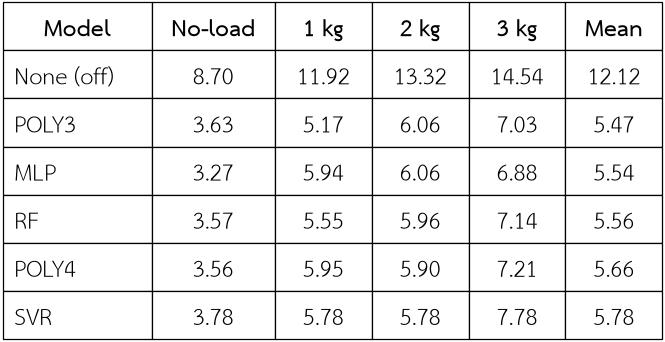
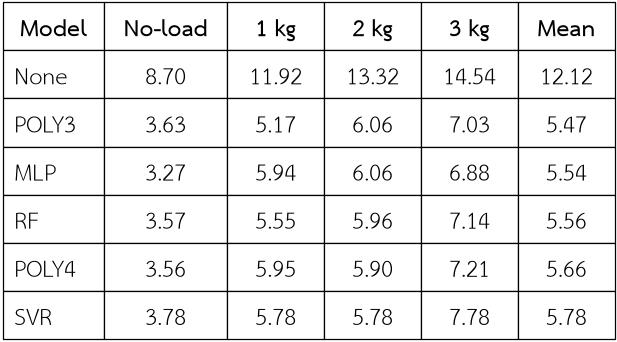
paper: ThaiJO submission package - anonymizer, A4 plan, table 3 label as in v5
Plan re-checked against every page (175-229) of the ThaiJO author manual.
Table 3's first row reads "None" as the author set it in v5.

diff --git a/paper/manuscript/submission/ThaiJO_Submission_Plan_A4.html b/paper/manuscript/submission/ThaiJO_Submission_Plan_A4.html
@@ -1,0 +1,225 @@
+<!doctype html>
+<html lang="th">
+<head>
+<meta charset="utf-8">
+<title>แผนส่งบทความ ThaiJO</title>
+<style>
+  @page { size: A4; margin: 0; }
+  :root {
+    --navy: #14304f; --ink: #1d2733; --muted: #5b6776; --line: #d5dce4;
+    --blue: #1f6fb2; --blue-bg: #e8f1fa; --green: #1e8a52; --green-bg: #e6f4ec;
+    --amber: #b86e00; --amber-bg: #fdf3e1; --red: #c0392b; --red-bg: #fbeae8;
+    --paper: #ffffff;
+  }
+  * { box-sizing: border-box; margin: 0; padding: 0; }
+  html, body { background: var(--paper); }
+  body {
+    width: 210mm; height: 297mm; overflow: hidden;
+    font-family: "TH Sarabun New", sans-serif; font-size: 13.3pt; line-height: 1.0;
+    color: var(--ink); -webkit-print-color-adjust: exact; print-color-adjust: exact;
+  }
+  h1, h2, h3, .k { font-family: "Kanit", "Leelawadee UI", sans-serif; font-weight: 500; }
+  .page { padding: 8mm 10mm 6mm; height: 100%; display: flex; flex-direction: column; gap: 2.8mm; }
+
+  /* header */
+  header { background: var(--navy); color: #fff; border-radius: 3mm; padding: 4mm 5mm 3.6mm; }
+  header h1 { font-size: 15.5pt; line-height: 1.3; }
+  header .sub { font-size: 13pt; opacity: .85; margin-top: .6mm; }
+  .status { display: flex; gap: 2mm; margin-top: 2.4mm; flex-wrap: wrap; }
+  .pill { font-family: "Kanit", sans-serif; font-size: 8.6pt; padding: .9mm 2.6mm; border-radius: 10mm; background: rgba(255,255,255,.14); }
+  .pill.done::before { content: "✓ "; color: #7be0a6; }
+  .pill.next { background: #f2a900; color: #1d2733; }
+
+  /* journey */
+  .journey { display: grid; grid-template-columns: repeat(7, 1fr); gap: 1.4mm; }
+  .stage { position: relative; border: .3mm solid var(--line); border-radius: 2mm; padding: 1.6mm 1.6mm 1.4mm; text-align: center; background: #fbfcfd; }
+  .stage .n { font-family: "Kanit", sans-serif; font-size: 8pt; color: var(--muted); }
+  .stage .t { font-family: "Kanit", sans-serif; font-size: 8.8pt; font-weight: 500; line-height: 1.25; }
+  .stage .d { font-size: 12pt; color: var(--muted); line-height: 1.05; margin-top: .4mm; }
+  .stage.done { background: var(--green-bg); border-color: #a9d8bd; }
+  .stage.now { background: var(--amber-bg); border-color: #f2a900; box-shadow: 0 0 0 .5mm #f2a900 inset; }
+  .stage:not(:last-child)::after { content: "›"; position: absolute; right: -1.45mm; top: 38%; font-size: 13pt; color: #9aa6b2; font-family: "Kanit"; }
+
+  /* main grid */
+  .main { display: grid; grid-template-columns: 1.18fr 1fr; gap: 3mm; }
+  .card { border: .3mm solid var(--line); border-radius: 2.6mm; padding: 2.6mm 3.2mm; background: #fff; }
+  .card h2 { font-size: 11pt; color: var(--navy); margin-bottom: 1.6mm; display: flex; align-items: center; gap: 1.6mm; }
+  .card h2 .tag { font-size: 7.6pt; font-weight: 400; color: var(--muted); }
+
+  .steps { display: flex; flex-direction: column; gap: 1.5mm; }
+  .step { display: grid; grid-template-columns: 7mm 1fr; gap: 2mm; align-items: start; }
+  .step .num { width: 7mm; height: 7mm; border-radius: 50%; background: var(--blue); color: #fff; font-family: "Kanit"; font-size: 10pt; display: grid; place-items: center; }
+  .step .num.last { background: var(--red); }
+  .step h3 { font-size: 9.6pt; color: var(--blue); line-height: 1.3; }
+  .step h3.last { color: var(--red); }
+  .step ul { list-style: none; }
+  .step li { padding-left: 3mm; position: relative; }
+  .step li::before { content: "•"; position: absolute; left: 0; color: #9aa6b2; }
+  b { font-weight: 700; }
+  .hl { background: #fff1c2; padding: 0 .6mm; border-radius: .6mm; }
+
+  .files { font-size: 13.6pt; }
+  .tree { border-left: .4mm solid var(--line); margin-left: 1mm; padding-left: 2.4mm; display: flex; flex-direction: column; gap: .9mm; }
+  .fname { font-family: Consolas, monospace; font-size: 8.3pt; }
+  .type { font-family: "Kanit"; font-size: 7.2pt; padding: .2mm 1.6mm; border-radius: 1mm; margin-left: 1mm; white-space: nowrap; }
+  .type.at { background: var(--blue-bg); color: var(--blue); }
+  .type.ot { background: #eef0f3; color: var(--muted); }
+  .type.no { background: var(--amber-bg); color: var(--amber); }
+  .folder { font-family: "Kanit"; font-size: 8.4pt; color: var(--navy); margin-bottom: 1mm; word-break: break-all; }
+  .note { color: var(--muted); font-size: 12.6pt; line-height: 1.0; font-family: "TH Sarabun New"; font-weight: 400; }
+
+  .checks { list-style: none; display: grid; grid-template-columns: 1fr; gap: .5mm; margin-top: .4mm; }
+  .checks li { padding-left: 5mm; position: relative; }
+  .checks li::before { content: ""; position: absolute; left: 0; top: 1.3mm; width: 3mm; height: 3mm; border: .35mm solid var(--navy); border-radius: .6mm; }
+
+  .right { display: flex; flex-direction: column; gap: 2.8mm; }
+
+  /* bottom */
+  .bottom { display: grid; grid-template-columns: 1fr 1fr 1fr; gap: 3.4mm; flex: 1; }
+  .card.warn { border-color: #e7b3ac; background: var(--red-bg); }
+  .card.warn h2 { color: var(--red); }
+  .card.dec { border-color: #f0cf8f; background: var(--amber-bg); }
+  .card.dec h2 { color: var(--amber); }
+  .card.after { border-color: #b9d3ea; background: var(--blue-bg); }
+  .card ul.plain { list-style: none; display: flex; flex-direction: column; gap: .9mm; }
+  .card ul.plain li { padding-left: 3.4mm; position: relative; }
+  .card ul.plain li::before { content: "▸"; position: absolute; left: 0; font-size: 9pt; top: .4mm; color: inherit; opacity: .6; }
+
+  footer { display: flex; justify-content: space-between; font-size: 11.5pt; color: var(--muted); border-top: .3mm solid var(--line); padding-top: 1.4mm; }
+</style>
+</head>
+<body>
+<div class="page">
+
+<header>
+  <h1>แผนส่งบทความ BLEGS ผ่านระบบ ThaiJO</h1>
+  <div class="sub">วารสารวิชาการพระจอมเกล้าพระนครเหนือ (The Journal of KMUTNB) · สรุปจากคู่มือ ThaiJO (OJS 3.3.0-8) หน้า 175–229 และคำแนะนำผู้แต่ง · 19 พ.ย. 2569</div>
+  <div class="status">
+    <span class="pill done">ต้นฉบับ v5 ตรวจครบทั้งเล่ม</span>
+    <span class="pill done">สมัครสมาชิกแล้ว</span>
+    <span class="pill done">ชุดไฟล์พร้อมส่ง</span>
+    <span class="pill next">ถัดไป: ตั้งโปรไฟล์ แล้วส่งบทความ 5 ขั้น</span>
+  </div>
+</header>
+
+<section class="journey">
+  <div class="stage done"><div class="n">1</div><div class="t">สมัครสมาชิก</div><div class="d">Register + ยืนยันอีเมล</div></div>
+  <div class="stage now"><div class="n">2</div><div class="t">ส่งบทความ</div><div class="d">5 ขั้น (อยู่ตรงนี้)</div></div>
+  <div class="stage"><div class="n">3</div><div class="t">คัดกรอง+ประเมิน</div><div class="d">ตรวจคัดลอก · double-blind 3 ท่าน</div></div>
+  <div class="stage"><div class="n">4</div><div class="t">แก้ไขบทความ</div><div class="d">Revisions ตามผู้ทรงฯ</div></div>
+  <div class="stage"><div class="n">5</div><div class="t">Copyediting</div><div class="d">ตรวจต้นฉบับ (บางวารสารข้าม)</div></div>
+  <div class="stage"><div class="n">6</div><div class="t">Production</div><div class="d">ตรวจไฟล์ PDF จัดหน้า</div></div>
+  <div class="stage"><div class="n">7</div><div class="t">เผยแพร่</div><div class="d">ย้ายไป Archives</div></div>
+</section>
+
+<section class="main">
+  <div class="card">
+    <h2>ส่งบทความ 5 ขั้น <span class="tag">Dashboard → New Submission</span></h2>
+    <div class="steps">
+      <div class="step"><div class="num">1</div><div>
+        <h3>Start</h3>
+        <ul>
+          <li>ภาษา <b>ไทย</b> · เลือก Section/สาขา ถ้ามี</li>
+          <li><span class="hl">อ่าน Section Policy และ Submission Requirements ก่อนติ๊ก</span> จุดเดียวที่บอกเงื่อนไขเฉพาะวารสาร</li>
+          <li>Comments for the Editor (ไม่บังคับ มีร่างให้) · ยอมรับลิขสิทธิ์และ privacy เอง</li>
+        </ul></div></div>
+      <div class="step"><div class="num">2</div><div>
+        <h3>Upload Submission</h3>
+        <ul>
+          <li>ลากหลายไฟล์พร้อมกันได้ ไฟล์ละ ≤ 50 MB</li>
+          <li>ต้นฉบับ = <b>Article Text</b> · jpg 10 ไฟล์ = <b>Other</b></li>
+          <li class="note">ภาพตัวอย่างในคู่มือแนบ agreement.pdf เป็น Other ถ้าวารสารมีแบบฟอร์มให้แนบที่ขั้นนี้</li>
+        </ul></div></div>
+      <div class="step"><div class="num">3</div><div>
+        <h3>Enter Metadata <span class="note">คัดลอกจาก ThaiJO_Metadata.txt</span></h3>
+        <ul>
+          <li>Title และ Abstract กรอกทั้งไทย/อังกฤษ · Prefix/Subtitle เว้นว่าง</li>
+          <li>Contributors กด Edit เติมชื่อไทย สังกัด ORCID · ติ๊ก Principal contact และ Browse lists</li>
+          <li>Keywords ทีละคำแล้ว Enter (4+4) · Supporting Agencies ว่าง · References 19 บรรทัด</li>
+        </ul></div></div>
+      <div class="step"><div class="num last">4</div><div>
+        <h3 class="last">Confirmation → Finish Submission → OK</h3>
+        <ul><li><b>หลังกด OK แก้เองไม่ได้แล้ว</b> ต้องขอผ่าน Pre-Review Discussions</li></ul></div></div>
+      <div class="step"><div class="num">5</div><div>
+        <h3>Next Steps</h3>
+        <ul><li>อีเมล "Submission Acknowledgement" มาพร้อมลิงก์ ให้<b>จดเลข ID บทความ</b></li>
+          <li>Dashboard แสดงสถานะ "Submission" กด View เพื่อเข้าดูบทความ</li>
+          <li>ขอแก้ข้อมูลก่อนเข้าสู่ Review: แท็บ Workflow ส่วน Submission ที่ <b>Pre-Review Discussions</b> กด Add discussion</li></ul></div></div>
+    </div>
+  </div>
+
+  <div class="right">
+    <div class="card">
+      <h2>ตั้งโปรไฟล์ก่อนส่ง <span class="tag">2 ระดับ</span></h2>
+      <ul class="checks">
+        <li>บัญชีกลาง sso.tci-thaijo.org: ชื่อ-นามสกุล และสังกัด ทั้ง EN/TH, ORCID</li>
+        <li>โปรไฟล์ในเว็บวารสาร (View Profile): ลูกโลกเขียวทุกช่อง</li>
+        <li>แท็บ Contact: Working Languages ติ๊กไทย + อังกฤษ · แท็บ Roles: Author</li>
+        <li>Notifications คงค่าเดิม <b>อย่าปิดอีเมลแจ้งเตือน</b></li>
+      </ul>
+    </div>
+
+    <div class="card files">
+      <h2>ชุดไฟล์พร้อมส่ง</h2>
+      <div class="folder">Desktop\BLEGS_ThaiJO_Submission\</div>
+      <div class="tree">
+        <div><span class="fname">BLEGS_Manuscript_Anonymous.docx</span><span class="type at">Article Text</span><div class="note">ฉบับปิดชื่อ (ค่าเริ่มต้น) ไม่มีชื่อในหน้าแรก ท้ายกระดาษ และ Properties</div></div>
+        <div><span class="fname">BLEGS_Manuscript.docx</span><span class="type no">สำรอง</span><div class="note">สำเนา v5 ทุกไบต์ ใช้เมื่อ Step 1 ขอฉบับมีชื่อ</div></div>
+        <div><span class="fname">figures_tables_jpg\ Figure1–5, Table1–5</span><span class="type ot">Other</span></div>
+        <div><span class="fname">ThaiJO_Metadata.txt</span><div class="note">ข้อความวางลงแบบฟอร์ม และร่างข้อความถึงบรรณาธิการ</div></div>
+      </div>
+    </div>
+
+    <div class="card">
+      <h2>ตรวจก่อนกด Finish</h2>
+      <ul class="checks">
+        <li>อ่านเงื่อนไขใน Step 1 แล้ว และเลือกไฟล์ตามนั้น</li>
+        <li>ต้นฉบับ 1 ไฟล์เป็น Article Text, jpg 10 ไฟล์เป็น Other</li>
+        <li>ลูกโลกเขียวที่ Title และ Abstract ทั้งสองภาษา</li>
+        <li>ชื่อ-สังกัดไทย/อังกฤษครบ · อีเมลถูก</li>
+        <li>Keywords ไทย 4 คำ และอังกฤษ 4 คำ</li>
+        <li>References ครบ 19 รายการ แยกบรรทัด</li>
+        <li>ชื่อเรื่องในฟอร์มตรงกับในไฟล์ Word</li>
+      </ul>
+    </div>
+  </div>
+</section>
+
+<section class="bottom">
+  <div class="card warn">
+    <h2>กฎที่พลาดไม่ได้</h2>
+    <ul class="plain">
+      <li><b>ห้ามแก้ไฟล์ v5</b> บน Desktop ใช้ไฟล์ในโฟลเดอร์ส่งเท่านั้น</li>
+      <li>แก้บทความ <b>ห้ามกด New Submission</b> จะได้ ID ใหม่และเกิดบทความซ้ำ</li>
+      <li>กด OK ใน Step 4 แล้วแก้เองไม่ได้</li>
+      <li>อีเมลระบบมาจาก admin@tci-thaijo.org ดูในจดหมายขยะด้วย</li>
+    </ul>
+  </div>
+  <div class="card after">
+    <h2>เมื่อได้ผลประเมิน</h2>
+    <ul class="plain">
+      <li>อีเมล "Editor Decision" ผลประเมินอาจแนบมาในกระทู้</li>
+      <li>แท็บ Review ส่วน Revisions กด Upload File: ต้นฉบับแก้แล้ว = Article Text, <b>ตารางสรุปการแก้ไข</b> = Other</li>
+      <li>อัปโหลดทีละไฟล์ ตั้งชื่อไฟล์ทั้งไทยและอังกฤษ และไฟล์ต้องยังปิดชื่อ</li>
+      <li>ตอบใน Review Discussions ด้วย Add Message ก่อนกำหนดส่ง</li>
+    </ul>
+  </div>
+  <div class="card dec">
+    <h2>ต้องตัดสินใจ / ดูบนเว็บวารสาร</h2>
+    <ul class="plain">
+      <li>ส่งฉบับปิดชื่อหรือมีชื่อ ให้ดูจาก Step 1</li>
+      <li>ค่าธรรมเนียม และแบบฟอร์มเฉพาะวารสาร (ไม่มีในคู่มือ)</li>
+      <li>ยาว 12 หน้า แต่คำแนะนำระบุไม่เกิน 9 หน้า (ร่างข้อความถึงบรรณาธิการกล่าวถึงไว้แล้ว)</li>
+      <li>สังกัดยังไม่มี "ภาควิชา" · ORCID ถ้าต้องการ</li>
+    </ul>
+  </div>
+</section>
+
+<footer>
+  <span>รายละเอียดเต็ม: paper/manuscript/submission/SUBMISSION_CHECKLIST.md</span>
+  <span>คู่มือต้นฉบับ: Desktop\ThaiJO\ (13 ไฟล์)</span>
+</footer>
+
+</div>
+</body>
+</html>

diff --git a/paper/anonymize-docx.py b/paper/anonymize-docx.py
@@ -1,0 +1,71 @@
+"""Anonymized copy of a finished manuscript .docx (the source file is only read).
+
+Drops the Author / Affiliation / Corresponding paragraphs (Thai and English),
+removes the author name from the running footers (title kept, as the -Anonymous
+build does), and blanks the author fields in the document properties.
+Fails loudly if anything identifying is left.
+
+usage: python paper/anonymize-docx.py SRC.docx DST.docx
+(used 19 Nov 2026 for the ThaiJO upload; run it again on every revised file -
+the review is double-blind and revisions must stay anonymous)
+"""
+import re
+import sys
+import zipfile
+
+src, dst = sys.argv[1], sys.argv[2]
+NAMES = ['ธีรโชติ', 'เมืองจำนงค์', 'Teerachot', 'Mueangchamnong',
+         'm.teerachot', '4556 0911', 'วิทยาลัยเทคโนโลยีอุตสาหกรรม',
+         'College of Industrial Technology']
+
+zin = zipfile.ZipFile(src)
+parts = {i.filename: zin.read(i.filename) for i in zin.infolist()}
+infos = zin.infolist()
+
+doc = parts['word/document.xml'].decode('utf8')
+n_drop = 0
+def drop(m):
+    global n_drop
+    p = m.group(0)
+    st = re.search(r'<w:pStyle w:val="([^"]+)"', p)
+    if st and st.group(1) in ('Author', 'Affiliation', 'Corresponding'):
+        n_drop += 1
+        return ''
+    return p
+doc = re.sub(r'<w:p\b[^>]*>(?:(?!</w:p>).)*</w:p>', drop, doc, flags=re.S)
+if n_drop != 6:
+    sys.exit('expected 6 author paragraphs, dropped %d' % n_drop)
+parts['word/document.xml'] = doc.encode('utf8')
+
+n_ftr = 0
+for name in list(parts):
+    if re.match(r'word/footer\d+\.xml$', name):
+        x = parts[name].decode('utf8')
+        new = re.sub(r'(<w:t[^>]*>)ธีรโชติ เมืองจำนงค์, ', r'\1', x)
+        if new != x:
+            n_ftr += 1
+        parts[name] = new.encode('utf8')
+if n_ftr != 2:
+    sys.exit('expected 2 footers with the author name, changed %d' % n_ftr)
+
+core = parts['docProps/core.xml'].decode('utf8')
+core = re.sub(r'<dc:creator>[^<]*</dc:creator>', '<dc:creator></dc:creator>', core)
+core = re.sub(r'<cp:lastModifiedBy>[^<]*</cp:lastModifiedBy>',
+              '<cp:lastModifiedBy></cp:lastModifiedBy>', core)
+parts['docProps/core.xml'] = core.encode('utf8')
+if 'docProps/custom.xml' in parts:
+    parts['docProps/custom.xml'] = parts['docProps/custom.xml'].replace(
+        b'name="anonymous"><vt:lpwstr>False', b'name="anonymous"><vt:lpwstr>True')
+
+left = []
+for name, data in parts.items():
+    if name.endswith('.xml') or name.endswith('.rels'):
+        text = data.decode('utf8', 'ignore')
+        left += ['%s: %s' % (name, k) for k in NAMES if k in text]
+if left:
+    sys.exit('identifying text left:\n  ' + '\n  '.join(left))
+
+with zipfile.ZipFile(dst, 'w', zipfile.ZIP_DEFLATED) as out:
+    for i in infos:
+        out.writestr(i, parts[i.filename])
+print('wrote', dst, '- dropped', n_drop, 'paragraphs, cleaned', n_ftr, 'footers')

diff --git a/paper/manuscript/submission/SUBMISSION_CHECKLIST.md b/paper/manuscript/submission/SUBMISSION_CHECKLIST.md
@@ -63,48 +63,47 @@
       ไม่เหลือชื่อ สังกัด อีเมล · ส่งฉบับนี้ถ้าระบบขอ "manuscript without author details"
 - 🔧 ตรวจว่าเนื้อความไม่เผยตัวตนทางอื่น (ชื่อห้องแล็บ, ทุน, "งานก่อนหน้าของเรา")
 
-## การส่งผ่านระบบ ThaiJO (แผน 18 พ.ย. 2026)
+## การส่งผ่านระบบ ThaiJO (แผน 18 พ.ย. · ทบทวนคู่มือทุกหน้าซ้ำ 19 พ.ย. 2026)
 
-ที่มา: คู่มือ ThaiJO (OJS 3.3.0-8) หน้า 175–229 ที่ผู้นิพนธ์บันทึกไว้ใน `OneDrive\Desktop\ThaiJO\` (13 ไฟล์ อ่านครบแล้ว) + `paper/journal/instructions/`
-ไฟล์ต้นฉบับที่ใช้ = **`BLEGS_KMUTNB_2026-11-08_v5.docx` บน Desktop** — ผู้นิพนธ์ตรวจทั้งเล่มแล้ว (17 พ.ย.) **ห้ามแก้ไฟล์นี้** งานด้านล่างทุกชิ้นทำจากสำเนาหรืออ่านอย่างเดียว
+ที่มา: คู่มือ ThaiJO (OJS 3.3.0-8) หน้า 175–229 ครบทุกหน้า ที่ผู้นิพนธ์บันทึกไว้ใน `OneDrive\Desktop\ThaiJO\` (13 ไฟล์ — อ่านทั้งข้อความและภาพหน้าจอทีละหน้าแล้ว) + `paper/journal/instructions/`
+เป็นคู่มือกลางของ ThaiJO (ภาพตัวอย่างคือ "Journal of TCI") — **ไม่มีข้อกำหนดเฉพาะของวารสาร KMUTNB** ซึ่งจะเห็นเองใน Step 1
+ไฟล์ต้นฉบับ = **`BLEGS_KMUTNB_2026-11-08_v5.docx` บน Desktop** ผู้นิพนธ์ตรวจทั้งเล่มแล้ว (17 พ.ย.) **ห้ามแก้ไฟล์นี้** ทุกไฟล์ด้านล่างทำจากสำเนา
 
-สถานะ v5 ที่ตรวจแบบอ่านอย่างเดียว 18 พ.ย.: ไม่มี ⟦จำลอง⟧ เหลือ (สเปกกรวด 15–30 มม. ใส่แล้ว) · ชื่อเรื่องไทย/อังกฤษใหม่ + ท้ายกระดาษตรงชื่อใหม่แล้ว ·
-ไม่มี track changes/comment ค้าง · ตาราง 5 รูป 5 อ้างอิง 19 · บทคัดย่ออังกฤษ 219 คำ · ตารางใน v5 ตรงกับ `tables/src/` ยกเว้นตารางที่ 3 แถวแรก "None" (src: "None (off)")
+**ชุดไฟล์พร้อมส่ง (19 พ.ย.): `OneDrive\Desktop\BLEGS_ThaiJO_Submission\`**
+- `BLEGS_Manuscript.docx` = สำเนา v5 ตรงทุกไบต์ (md5 5b0e288c…) · Word 12 หน้า
+- `BLEGS_Manuscript_Anonymous.docx` = สำเนา v5 ที่ตัดย่อหน้า ชื่อ/สังกัด/ผู้ประสานงาน ทั้งไทย-อังกฤษ (6 ย่อหน้า), ตัดชื่อออกจากท้ายกระดาษ (เหลือชื่อเรื่อง),
+  ล้าง Author/Last modified by ใน Properties — ตรวจด้วยสคริปต์และ PDF ที่ Word render แล้วว่าไม่เหลือชื่อ อีเมล โทรศัพท์ สังกัด · Word 12 หน้า
+- `figures_tables_jpg\Figure1–5.jpg` (ตรงกับรูปใน v5 ทุกไบต์) และ `Table1–5.jpg` (table3 ทำใหม่ 19 พ.ย. ให้แถวแรกเป็น "None" ตาม v5)
+- `ThaiJO_Metadata.txt` = ข้อความคัดลอกลงแบบฟอร์ม (ชื่อเรื่อง บทคัดย่อ ผู้นิพนธ์ คำสำคัญ อ้างอิง 19 รายการ + ร่างข้อความถึงบรรณาธิการ) ดึงจาก v5
+- `ThaiJO_Submission_Plan_A4.pdf` = อินโฟกราฟิกสรุป 1 หน้า
 
-### ก. เตรียมไฟล์ (ก่อนเข้าระบบ)
-- [ ] A1 ไฟล์บทความ .docx = สำเนาของ v5 ตั้งชื่อใหม่ (เช่น `BLEGS_KMUTNB_submit.docx`) — อัปโหลดเป็น **Article Text**
-- [ ] A2 ฉบับปิดชื่อ (ถ้า checklist ของวารสารใน Step 1 ขอ หรือถ้าระบบให้แนบแยก): สำเนาของ v5 ที่ลบ ชื่อ/สังกัด/โทรศัพท์/อีเมล ทั้งไทยและอังกฤษ,
-      **ท้ายกระดาษ (มีชื่อผู้นิพนธ์)**, และ File → Info → Properties (Author/Last modified by = ชื่อจริง) — ตรวจเนื้อความว่าไม่มีคำที่บอกตัวตน
-- [ ] A3 .jpg รูป 5 ชิ้น `paper/figures/export/fig1–5.jpg` และตาราง 5 ชิ้น `paper/tables/export/table1–5.jpg` — อัปโหลดเป็น **Other**
-      ก่อนส่ง: ทำ table3.jpg ใหม่ให้ตรง v5 ("None") หรือยืนยันว่าไม่ต้อง; ตรวจว่ารูปใน v5 ยังเป็นชุดเดียวกับ export
-- [ ] A4 ทุกไฟล์ ≤ 50 MB (v5 = 0.37 MB)
-- [ ] A5 ไฟล์ข้อความสำหรับคัดลอกลงแบบฟอร์ม Metadata (ข้อ ค) — ดึงจาก v5 แบบอ่านอย่างเดียว
+### ก. บัญชีผู้ใช้ — สมัครแล้ว (19 พ.ย.)
+- [x] Register + ยืนยันอีเมล (ลิงก์ยืนยันหมดอายุใน 10 นาที, ลิงก์รีเซ็ตรหัส 5 นาที; อีเมลมาจาก admin@tci-thaijo.org — ดู spam/junk)
+- [ ] โปรไฟล์ **2 ระดับ**: (1) บัญชีกลาง https://sso.tci-thaijo.org/ — ชื่อ/นามสกุล/สังกัด ทั้ง EN และ TH, ORCID
+      (2) โปรไฟล์ในเว็บวารสาร (View Profile) — Identity/Contact ให้ลูกโลกเขียว, Contact → Working Languages ติ๊ก English + ไทย, Roles → Author ถูกติ๊ก
+- [ ] Notifications: **คงค่าเริ่มต้น** (อย่าติ๊ก "Do not send me an email") — ผลพิจารณาและคำขอแก้มาทางอีเมล
 
-### ข. บัญชีผู้ใช้
-- [ ] B1 Register ที่ https://ph01.tci-thaijo.org/index.php/kmutnb-journal/index (ชื่อ-นามสกุลอังกฤษ ไม่ใส่ยศ, อีเมล, สังกัดอังกฤษ, ประเทศ) — CAPTCHA และรหัสผ่านผู้นิพนธ์ทำเอง
-- [ ] B2 ยืนยันอีเมล "Verify email" จาก admin@tci-thaijo.org (ดู spam/junk ด้วย)
-- [ ] B3 Profile: ชื่อ/สังกัด **ทั้งไทยและอังกฤษ** ให้ลูกโลกเป็นสีเขียว · ORCID (ไม่บังคับ แต่ควรมี) · Roles → ติ๊ก Author → Save → reload ถ้าไม่เห็น New Submission
-- [ ] B4 ใช้อีเมลเดียวกับที่พิมพ์ในบทความ (m.teerachot@outlook.com) — ตัดสินใจเอง
+### ข. ส่งบทความ 5 ขั้น (Dashboard → New Submission)
+- [ ] 1 Start: ภาษา ไทย · Section (ถ้ามี) · Categories (ถ้ามี) · **อ่าน Section Policy และ Submission Requirements จริงก่อนติ๊กทุกข้อ** (จดข้อความไว้ — เป็นที่เดียวที่บอกเงื่อนไขเฉพาะวารสาร เช่น ขอฉบับปิดชื่อหรือแบบฟอร์มแนบ)
+      · Comments for the Editor (ไม่บังคับ; ร่างใน Metadata.txt) · Corresponding Contact · ยอมรับลิขสิทธิ์ (CC) + privacy — ผู้นิพนธ์อ่านและกดเอง
+- [ ] 2 Upload: ลากหลายไฟล์พร้อมกันได้ แต่ละไฟล์ ≤ 50 MB · เลือกประเภท **Article Text** = ต้นฉบับ (ค่าเริ่มต้นใช้ฉบับปิดชื่อ), **Other** = jpg 10 ไฟล์ · ขั้นนี้ไม่มีการตั้งชื่อไฟล์
+      (ภาพตัวอย่างในคู่มือแนบ `agreement.pdf` เป็น Other — ถ้า KMUTNB มีแบบฟอร์ม ให้แนบตรงนี้)
+- [ ] 3 Metadata: Prefix/Subtitle ว่าง · Title + Abstract ไทย/อังกฤษ · Contributors: ระบบใส่ชื่อผู้ส่งไว้แล้ว → Edit เติมชื่อไทย สังกัด ORCID, ติ๊ก Principal contact + Include in browse lists
+      · Keywords ทีละคำ + Enter (ลูกโลกแดงที่ช่องนี้เป็นบั๊กของระบบตามคู่มือ) · Supporting Agencies ว่าง · References วางทีละบรรทัด
+- [ ] 4 Confirmation: Finish Submission → กล่อง "Are you sure…" → OK — **หลังกด OK แก้ข้อมูลเองไม่ได้** ต้องขอผ่าน Pre-Review Discussions
+- [ ] 5 Next Steps: "Submission complete" + อีเมล "Submission Acknowledgement" (มีลิงก์และเลข ID บทความ) — จด ID ไว้ที่นี่: ______
 
-### ค. ส่งบทความ 5 ขั้น (New Submission)
-- [ ] C1 Start: ภาษา = ไทย · Section = Research article (ถ้ามี) · Category/สาขา ให้ตรงงาน (วิศวกรรม/หุ่นยนต์) · ติ๊ก Submission Requirements ทุกข้อ **หลังอ่านแล้วว่าผ่านจริง**
-      (บันทึกข้อความ checklist ของวารสารไว้ ถ้ามีข้อเรื่อง blind review ให้ใช้ไฟล์ A2) · Comments for the Editor (จดหมายนำสั้น ๆ — ไม่บังคับ)
-      · ติ๊กยอมรับลิขสิทธิ์ (CC) และ privacy — ผู้นิพนธ์ตัดสินใจและกดเอง
-- [ ] C2 Upload: A1 เป็น Article Text, A3 ทั้ง 10 ไฟล์เป็น Other (ตั้งชื่อไฟล์ทั้งช่องไทยและอังกฤษ)
-- [ ] C3 Metadata (กรอกทั้งช่องไทยและอังกฤษ): Title · Abstract · Contributors (ผู้นิพนธ์คนเดียว = Primary Contact) · Keywords ทีละคำกด Enter
-      (ไทย: กลไกห้าชิ้นส่วน / การเรียนรู้ของเครื่อง / เครื่องหมายอ้างอิงเชิงภาพ / ภาระโหลด · อังกฤษ: Five-Bar Linkage / Machine Learning / Fiducial Marker / Payload;
-      ลูกโลกแดงที่ Keywords เป็นข้อผิดพลาดของระบบตามคู่มือ) · Supporting Agencies เว้นว่าง (ไม่มีทุน) · References 19 รายการ แต่ละรายการขึ้นบรรทัดใหม่
-- [ ] C4 Confirmation → Finish Submission → OK — **หลังกด OK แก้อะไรเองไม่ได้แล้ว** ต้องขอผ่าน Discussion
-- [ ] C5 เก็บอีเมล "Submission Acknowledgement" + เลข ID บทความ จดลงไฟล์นี้
+### ค. หลังส่ง (ตามคู่มือหน้า 213–229)
+- สถานะเดินตาม Submission → Review → Copyediting → Production → Archives (Published / Declined) ดูได้จาก Dashboard → View
+- ขอแก้ข้อมูลก่อนเข้าสู่ Review: Workflow → Submission → **Pre-Review Discussions → Add discussion**
+- Editor Decision มาทางอีเมล/Discussion พร้อมไฟล์ผลประเมิน (ถ้าบรรณาธิการเปิดให้เห็น) และกำหนดส่ง
+- แก้ไข: **ห้ามกด New Submission** (จะได้ ID ใหม่) → Review → Revisions → Upload File: ต้นฉบับแก้แล้ว = Article Text, **ตารางสรุปการแก้ไข** = Other
+      (อัปโหลดทีละไฟล์ ตั้งชื่อไฟล์ทั้งช่องไทยและอังกฤษ; ไฟล์แก้ต้องปิดชื่อเหมือนเดิม) แล้วตอบกลับใน Review Discussions ด้วย Add Message
+- Copyediting / Production: ตรวจไฟล์และตอบกระทู้ที่วารสารส่งมา โดยเฉพาะ PDF ฉบับจัดหน้า (สมการ ตาราง ภาษาไทย)
+- กระทู้ Discussion ใช้ได้ทุกสถานะ แนบไฟล์ได้ ≤ 50 MB/ไฟล์
 
-### ง. หลังส่ง
-- ตรวจคัดลอกผลงาน → double-blind 3 ท่าน → "Editor Decision" ทางอีเมลหรือ Discussion
-- แก้ไข (Revisions): **ห้ามกด New Submission** — อัปโหลดไฟล์แก้ที่หัวข้อ Revisions และตอบความเห็นใน Review Discussion (ทำตารางตอบผู้ทรงฯ ทีละข้อ)
-- Copyediting / Production: ตรวจไฟล์ที่วารสารส่งกลับผ่าน Discussion โดยเฉพาะ PDF ฉบับจัดหน้า (สมการ ตาราง ภาษาไทย)
-- Published: บทความย้ายไป Archives
-
-### ยังต้องตัดสินใจ / ตรวจบนเว็บวารสารเอง (คู่มือ ThaiJO เป็นคู่มือกลาง ไม่ได้ระบุเฉพาะวารสาร)
-- ค่าธรรมเนียมการตีพิมพ์ (ถ้ามี) และแบบฟอร์มเฉพาะวารสาร (เช่น หนังสือรับรอง/โอนลิขสิทธิ์) — ไม่มีในเอกสารที่ได้รับ
-- ข้อความ Submission Requirements จริงของวารสาร ซึ่งจะเห็นใน Step 1 เท่านั้น
-- ความยาว 12 หน้า เทียบกับ "ไม่เกิน 9 หน้า" ในคำแนะนำ — ผู้นิพนธ์ยอมรับแล้ว อาจชี้แจงใน Comments for the Editor
-- สังกัดยังไม่มี "ภาควิชา"
+### ยังต้องตัดสินใจ / ดูบนเว็บวารสาร
+- ส่งฉบับปิดชื่อหรือฉบับมีชื่อเป็น Article Text — ดูจาก Step 1 (ค่าเริ่มต้น: ปิดชื่อ)
+- ค่าธรรมเนียมการตีพิมพ์ (ถ้ามี) และแบบฟอร์มเฉพาะวารสาร — ไม่มีในเอกสารที่ได้รับ
+- ความยาว 12 หน้า เทียบกับ "ไม่เกิน 9 หน้า" ในคำแนะนำ — ผู้นิพนธ์ยอมรับแล้ว ร่างข้อความถึงบรรณาธิการกล่าวถึงไว้
+- สังกัดยังไม่มี "ภาควิชา" · ORCID (ไม่บังคับ)

diff --git a/paper/tables/src/table3.md b/paper/tables/src/table3.md
@@ -14,7 +14,7 @@
 
 | Model | No-load | 1 kg | 2 kg | 3 kg | Mean |
 |---|---|---|---|---|---|
-| None (off) | 8.70 | 11.92 | 13.32 | 14.54 | 12.12 |
+| None | 8.70 | 11.92 | 13.32 | 14.54 | 12.12 |
 | POLY3 | 3.63 | 5.17 | 6.06 | 7.03 | 5.47 |
 | MLP | 3.27 | 5.94 | 6.06 | 6.88 | 5.54 |
 | RF | 3.57 | 5.55 | 5.96 | 7.14 | 5.56 |
